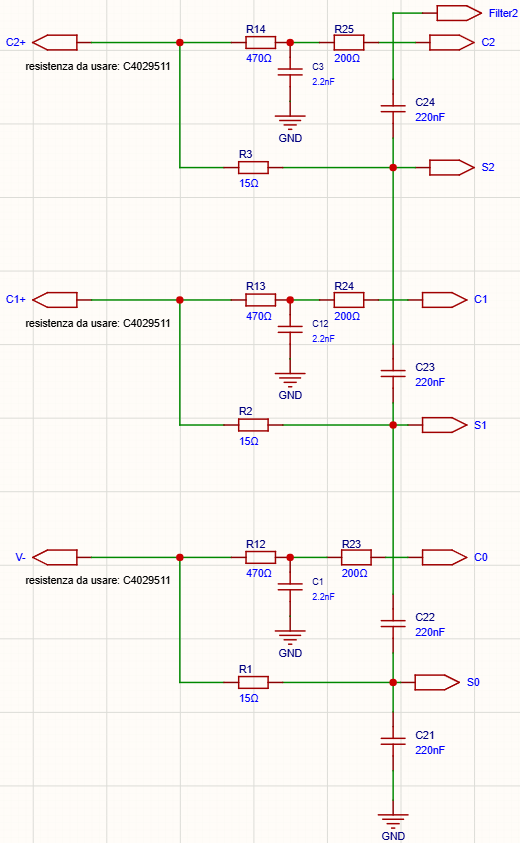
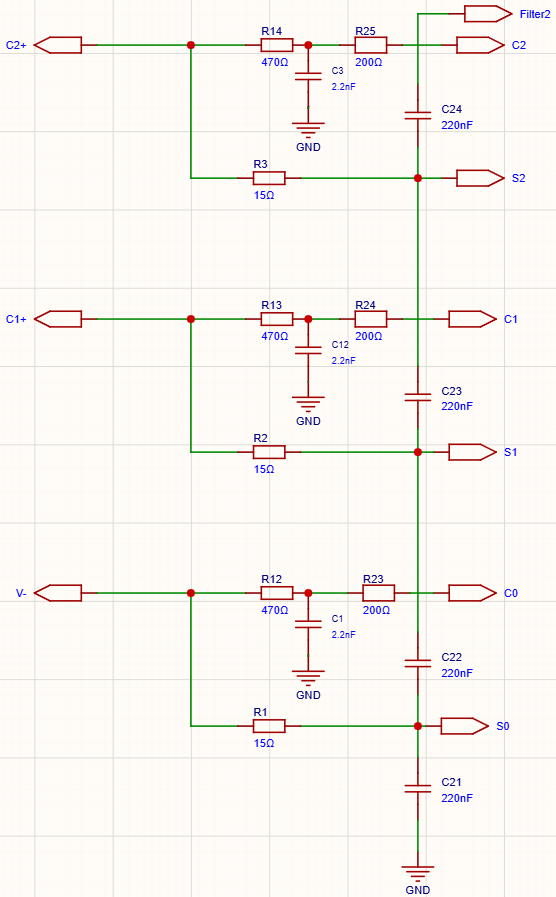
fine documentazione

diff --git a/docs/bms_vittoria/bms_board_palma.md b/docs/bms_vittoria/bms_board_palma.md
@@ -10,8 +10,19 @@ In questi anni di E racing Bergamo, abbiamo adottato dei BMS già prodotti, i Ti
 
 L'obiettivo postoci per la stagione 2026/2027 è quella di trovare una soluzione a questo problema, anche cambiando tecnologia dei BMS. Dopo esserci consultati anche con altri team di Formula student, abbiamo notato che l'utilizzo di un componente di Analog Device con comunicazione isoSPI ha risolto il problema. 
 Dopo aver consultato datasheet di vari componenti della stessa famiglia di ADI, abbiamo deciso di adottare l'ADBMS6815.
+### ==🟡Informazioni principali TSAC ERB03==
 
-### Informazioni principali
+| Parametro                   | Valore  |
+| --------------------------- | ------- |
+| Tensione max modulo         | 42V     |
+| Celle monitorate per modulo | 10      |
+| Temperature monitorate      | 5       |
+| Modello celle               | VTC6 4p |
+| Totale moduli               | 14      |
+| Tensione max TSAC           | 588V    |
+*Caratteristiche celle:*
+![[Caratteristiche Celle.png]]
+### ==🟡Informazioni principali ADBMS6815==
 
 L'ADBMS6815 è un componente che permette 
 1. monitoraggio di 12 celle 
@@ -31,7 +42,7 @@ Altre features utili:
 ![[ADBMS6815 schema generale.png|300]](schema generale)
 
 
-### Il componente
+### ==🟡Il componente==
 
 ![[ADBMS6815 componente.png|300]]
 I pin:
@@ -44,7 +55,7 @@ I pin:
 7) **ISOMD** è un digital input. Mandandolo alto configuriamo il BMS per la comunicazione isoSPI (2 cavi), mandandolo basso invece lo configura per la comunicazione SPI (4 cavi)
 8) $V_{REF1}$ e $V_{REF2}$ forniscono una tensione di riferimento. Entrambi hanno bisogno del condensatore di bypass. Solo la $V_{REF2}$ possiamo usarla per fornire tensione di riferimento ai sensori di temperatura
 9) **ISOTHR** 
-### Alimentazione del componente
+### ==🟡Alimentazione del componente==
 
 Il pin primario per fornire alimentazione al componente è il Vreg (input pin a 5V).
 
@@ -52,7 +63,7 @@ Il pin primario per fornire alimentazione al componente è il Vreg (input pin a 
 | ----- | ---- | --- | --- | --- |
 | Vreg  | 4.5  | 5   | 5.5 | V   |
 Il datasheet dice che ci sono 2/3 modi di fornire alimentazione al pin Vreg:
-1) **Simple linear regulator** : con un tansistor BJT NPN si sfrutta l'uscita del pin DRIVE per generare i 5V sul collettore a cui si collega il pin di Vreg
+1) **Simple linear regulator** : con un tansistor BJT NPN si sfrutta l'uscita del pin DRIVE per generare i 5V sull'emettitore a cui si collega il pin di Vreg
 2) **External regulator for Improved efficiency** : utilizzare un regolatore esterno per aumentare l'efficienza, utilizzando un regolatore step down
 
 La nostra scelta è ricaduta su un semplice regolatore lineare, per non aumentare rischi di errori e analizzando le foto dei test termici condivisi da Analog, si nota che non c'è una dissipazione critica.
@@ -92,9 +103,7 @@ La ferrite insieme al condensatore da C43=1 µF crea un filtro passa-basso.
 | - la bead ha una resistenza piccolissima;<br>- il circuito riceve quasi tutti i 5 V. | - la bead presenta un'impedenza elevata;<br>- i disturbi provenienti dal transistor o dall'esterno vengono attenuati;<br>- il condensatore da 1 µF li scarica a massa; |
 Quindi alla fine la progettazione di questa parte di circuito viene guidata dal datasheet del componente.
 
-### Filtraggio e bilanciamento di carica
-
-
+### ==🟡Filtraggio e bilanciamento di carica==
 ![[F&S basso.png|300]]
 Tranne per il pin C0, che si collega al V- della serie di celle, tutti i pin **Cx** misurano la tensione sulla cella. In mezzo c'è un filtro passa basso RC prima che filtra i rumori prima del pin collegato all'ADC interno. I valori di resistenza ($470\Omega$) e del condensatore ($2200nF$) sono consigliati dal datasheet, che suggerisce di tenere valori  $\le470\Omega$  e  $\ge2200nF$  per minimizzare l'errore di misura.
 La resistenza da $200\Omega$ è la resistenza che protegge il componente dai picchi di tensione.
@@ -104,4 +113,122 @@ $$R_{scarica}=\frac{\frac{V_{cell}} {I_{scarica}}-R_{ds,on}} {2}$$
 dove: 
 - $R_{ds,on}$ è la resistenza del mosfet interno del componente ($3\Omega$)
 - $V_{cell}$ è la tensione delle celle
-- $I_{cell}$ è la corrente di scarica (per ora 132mA, come evaluation board)
+- $I_{cell}$ è la corrente di scarica (per ora 132mA, come evaluation board vogliamo testare).
+Quindi la potenza :$$P_{scarica}= I^2R= (0.132mA)^2*15\Omega= 0.261W$$
+motiva la scelta di una resistenza di dimensione 2512 da 1W, sfruttabile se si aumenta la corrente di scarica. 
+
+Nell'immagine successiva, la parte di circuito in cui vengono collegate le celle 9 e 10 e come si collegano i pin del componente $C_{11}$ e $C_{12}$ inutilizzati.
+![[fine bilanciamento.png|300]]
+
+### ==🟡Temperature sensing==
+
+#### Monitoraggio della temperatura delle celle
+Il regolamento Formula Student richiede il monitoraggio di almeno il 30% delle temperature delle celle presenti nel TSAC. Considerando che ciascun modulo è composto da 10 gruppi di celle in serie, sono stati installati **5 sensori di temperatura per modulo**, consentendo il monitoraggio del 50% delle celle e aumentando la probabilità di individuare tempestivamente eventuali punti caldi (_hot-spots_) o condizioni anomale di funzionamento.
+
+Per mantenere la compatibilità con l'architettura attualmente utilizzata dal team, è stato scelto lo stesso sensore di temperatura impiegato nei moduli esistenti. Il dispositivo è un **temperature-variable voltage shunt**, ovvero un sensore che genera una tensione dipendente dalla temperatura. A differenza dei comuni termistori NTC, il parametro misurato non è la resistenza ma direttamente la tensione ai terminali del sensore.
+
+![[Tabella Sensing.png|350]]
+#### Caratteristica tensione-temperatura
+
+Il sensore presenta una caratteristica non lineare nel range operativo compreso tra **−40°C e +120°C**. All'aumentare della temperatura la tensione misurata diminuisce secondo la curva fornita dal costruttore.
+
+Alcuni punti caratteristici sono riportati in Tabella:![[Tabella valori sensing.png]]
+![[Grafico sensing.png|350]]
+La conversione della tensione misurata in temperatura verrà eseguita dal microcontrollore del sistema utilizzando la tabella fornita dal costruttore e un'eventuale interpolazione lineare tra i punti disponibili.
+#### Collegamento all'ADBMS6815
+
+L'ADBMS6815 dispone di sette GPIO configurabili come ingressi analogici. Per il monitoraggio delle temperature vengono utilizzati cinque canali:
+- GPIO1 → Temp1
+- GPIO2 → Temp2
+- GPIO3 → Temp3
+- GPIO4 → Temp4
+- GPIO5 → Temp5
+
+Ogni sensore è collegato all'uscita di riferimento **VREF2** attraverso una resistenza da **1.8 kΩ**. Tale resistenza determina la corrente che attraversa il sensore e ne consente il corretto funzionamento. 
+Il pin di $V_{ref2}$ può fornire al massimo 5mA, assumendo:
+- **VREF2 = 3.0 V** (valore tipico dell'ADBMS6815)
+- **R = 1.8 kΩ**
+- il sensore si comporta come uno shunt di tensione e genera le tensioni riportate nella sua tabella
+la corrente che attraversa il sensore vale:
+$$I_{sens}=\frac{V_{REF2}-V_{sensore}}{1.8k\Omega}$$
+Calcolando i valori:
+
+| Temperatura [°C] | $V_{sensore}$ | Corrente [mA] |
+| ---------------- | ------------- | ------------- |
+| -40              | 2.44          | 0.311         |
+| 0                | 2.17          | 0.461         |
+| 25               | 1.86          | 0.667         |
+| 60               | 1.51          | 0.828         |
+| 120              | 1.3           | 0.944         |
+Il valore scelto verrà validato durante la fase di testing del sistema.
+Con **5 sensori** sul modulo:
+$I_{tot,max}=5\cdot 0.944 = 4.72mA$
+Rimaniamo ancora sotto di circa 0.28mA ossia circa il **5,6% di margine**.
+
+Tra il sensore e l'ingresso GPIO è inoltre presente una resistenza serie da **1 kΩ**, mentre verso massa è collegato un condensatore da **100 nF**. Questi componenti realizzano un filtro passa-basso che riduce il rumore ad alta frequenza acquisito dai cavi dei sensori e migliora la stabilità della misura effettuata dall'ADC interno dell'ADBMS6815.
+#### Validazione sperimentale
+Poiché il sistema di acquisizione non è ancora stato testato con il componente definitivo, la correttezza delle misure verrà verificata durante la fase di validazione della scheda.
+Le prove previste comprendono:
+1. riscaldamento controllato delle celle;
+2. misura simultanea della temperatura mediante termocoppia di riferimento e sistema BMS;
+3. confronto tra le misure ottenute;
+4. valutazione dell'errore massimo nel range operativo;
+5. verifica della robustezza delle misure in presenza dei disturbi elettromagnetici generati dall'inverter.
+
+L'obiettivo è verificare che la catena di misura composta da sensore, circuito di condizionamento e ADC interno dell'ADBMS6815 fornisca una precisione adeguata ai requisiti di monitoraggio e sicurezza del pacco batterie.
+
+### ==🟡Comunicazione isoSPI==
+#### Architettura di comunicazione
+
+Per la comunicazione tra i moduli di monitoraggio e il controllore principale è stata adottata l'interfaccia **isoSPI** integrata nell'ADBMS6815. Questa tecnologia è stata sviluppata da Analog Devices per applicazioni Battery Management System ad alta tensione e consente di realizzare collegamenti robusti in ambienti caratterizzati da elevato rumore elettromagnetico.
+Ogni ADBMS6815 dispone di due porte isoSPI indipendenti:
+- **Port A**
+- **Port B**
+Le due porte consentono la realizzazione di una catena di comunicazione (_daisy chain_) tra i diversi moduli del pacco batteria. In questa configurazione la Port B di un modulo è collegata alla Port A del modulo successivo fino a raggiungere il monitor di batteria ADBMS6822, responsabile dell'interfacciamento con il microcontrollore principale.
+
+#### Principio di funzionamento
+
+L'interfaccia isoSPI utilizza una trasmissione differenziale a due fili. Le informazioni vengono trasmesse mediante impulsi differenziali che risultano intrinsecamente meno sensibili ai disturbi elettromagnetici rispetto a collegamenti single-ended tradizionali.
+Poiché i diversi moduli del pacco batteria operano a potenziali elettrici differenti, il collegamento deve inoltre garantire un'elevata immunità alle tensioni di modo comune (_common-mode voltage_) generate dalle rapide commutazioni dell'inverter.
+Per questo motivo Analog Devices prevede l'utilizzo di un accoppiamento magnetico tra i nodi della catena, ottenuto mediante trasformatori dedicati. Il trasformatore trasferisce esclusivamente le variazioni del segnale differenziale e contribuisce ad attenuare le componenti di rumore presenti simultaneamente sui due conduttori.
+#### Trasformatore di accoppiamento
+
+Per la fase di prototipazione è stato previsto il footprint del trasformatore **Pulse HM2100NL**, componente raccomandato per applicazioni di trasmissione dati differenziale ad elevata immunità ai disturbi.
+Le principali caratteristiche del dispositivo sono:
+- rapporto di trasformazione 1:1;
+- isolamento ingresso-uscita pari a 4300 VDC;
+- tensione di lavoro pari a 1000 VDC;
+- leakage inductance massima di 0.5 µH;
+- Common Mode Rejection Ratio (CMRR) minimo di 35 dB tra 1 MHz e 10 MHz.
+L'elevato valore di CMRR consente di ridurre significativamente i disturbi di modo comune indotti dai cablaggi ad alta tensione e dall'inverter del veicolo.
+#### Soluzioni implementate sulla scheda
+Poiché il comportamento del collegamento dipende fortemente dall'ambiente elettromagnetico reale del veicolo, il PCB è stato progettato prevedendo due possibili configurazioni selezionabili durante l'assemblaggio:
+##### Accoppiamento capacitivo
+Configurazione raccomandata da Analog Devices per collegamenti punto-punto di lunghezza ridotta.
+I segnali isoSPI vengono accoppiati tramite condensatori e resistenze secondo il circuito applicativo riportato nel datasheet dell'ADBMS6815.
+![[isoSPI capacitivo.png]]
+##### Accoppiamento tramite trasformatore
+Configurazione alternativa utilizzabile durante le attività di validazione.
+In questo caso il collegamento tra i nodi isoSPI viene realizzato tramite il trasformatore HM2100NL, consentendo di valutare sperimentalmente l'efficacia dell'accoppiamento magnetico nel ridurre gli errori di comunicazione in presenza dei disturbi generati dall'inverter.
+La selezione della configurazione avviene mediante la popolazione alternativa dei componenti sul PCB, senza richiedere modifiche hardware alla scheda.
+![[isoSPI trasformatore.png]]
+##### Attività di validazione
+Durante la campagna di test verranno confrontate entrambe le configurazioni al fine di determinare la soluzione più robusta per l'applicazione Formula Student.
+Le prove previste comprendono:
+- verifica della comunicazione con inverter spento;
+- verifica della comunicazione con inverter alimentato;
+- verifica della comunicazione durante il funzionamento del motore;
+- monitoraggio di eventuali errori di comunicazione o perdita di pacchetti;
+- confronto delle prestazioni tra accoppiamento capacitivo e accoppiamento magnetico.
+
+L'obiettivo finale è individuare la configurazione che garantisca la massima affidabilità della comunicazione BMS nelle condizioni operative reali del veicolo.
+
+### ==🟠Fase di testing==
+Dopo aver revisionato la scheda, partirà la fase di prototipazione con 5 schede da testare. Per la comunicazione l'idea iniziale è quella di acquistare l'evaluation board di ADI, la DC2792B che monta il componente LTC6820 che converte la comunicazione isoSPI a SPI collegabile al microcontrollore della scheda di controllo del pacco batterie. Un primo test sarà attraverso una board di ST, affinché il codice software possa essere già validato per la scheda presente nel pacco batterie.
+In fase di testing schede bisognerà verificare:
+- immunità EMI
+- l'accuratezza delle misure temperatura.
+- il balancing a corrente elevata.
+- la comunicazione isoSPI con inverter acceso.
+
+
